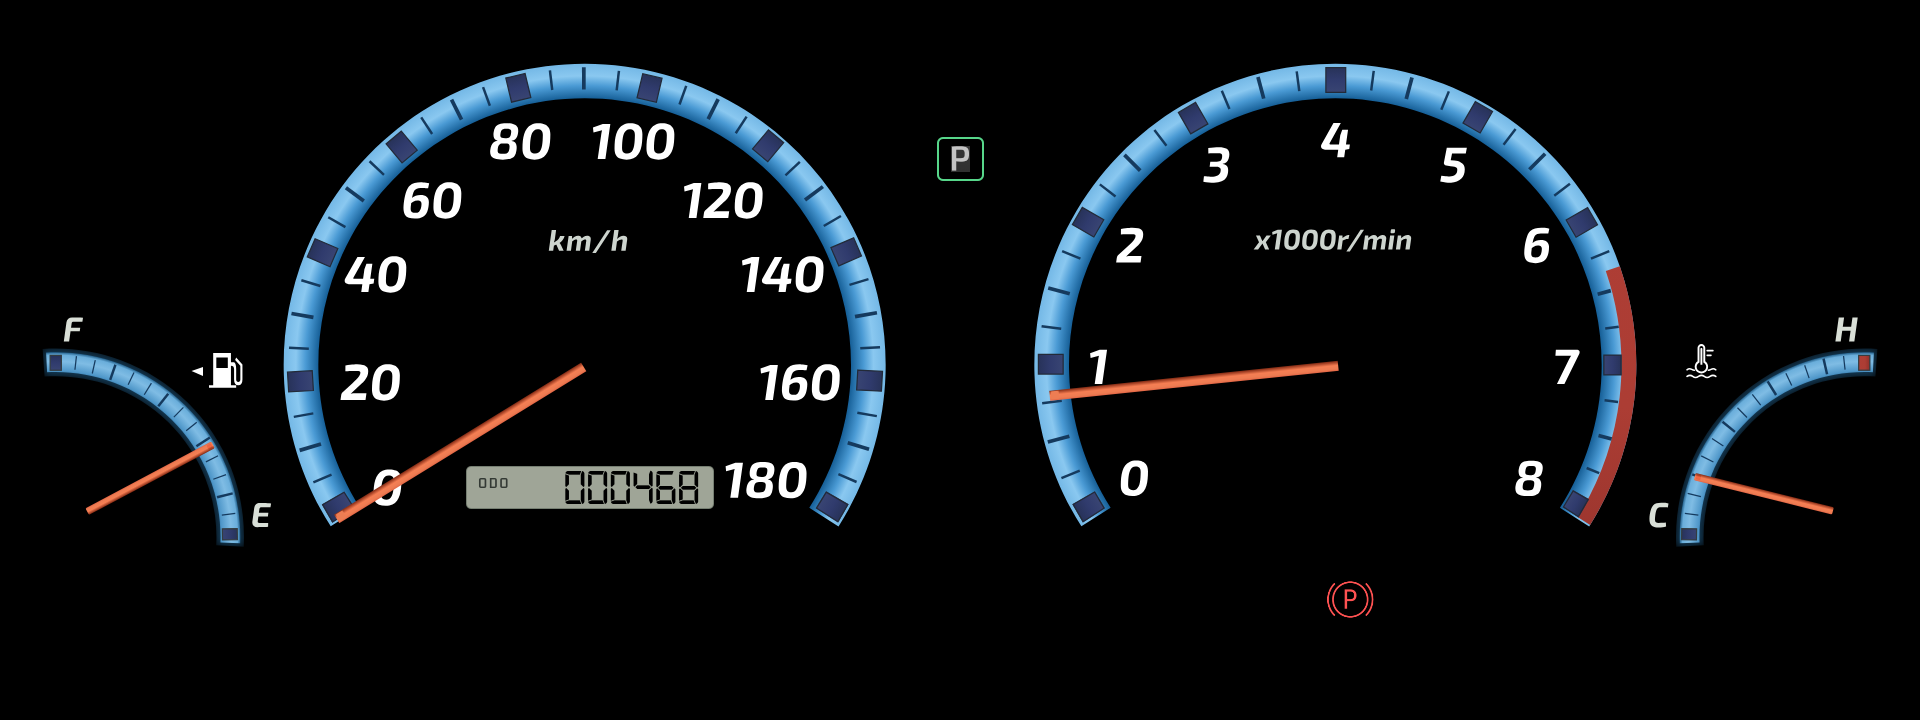
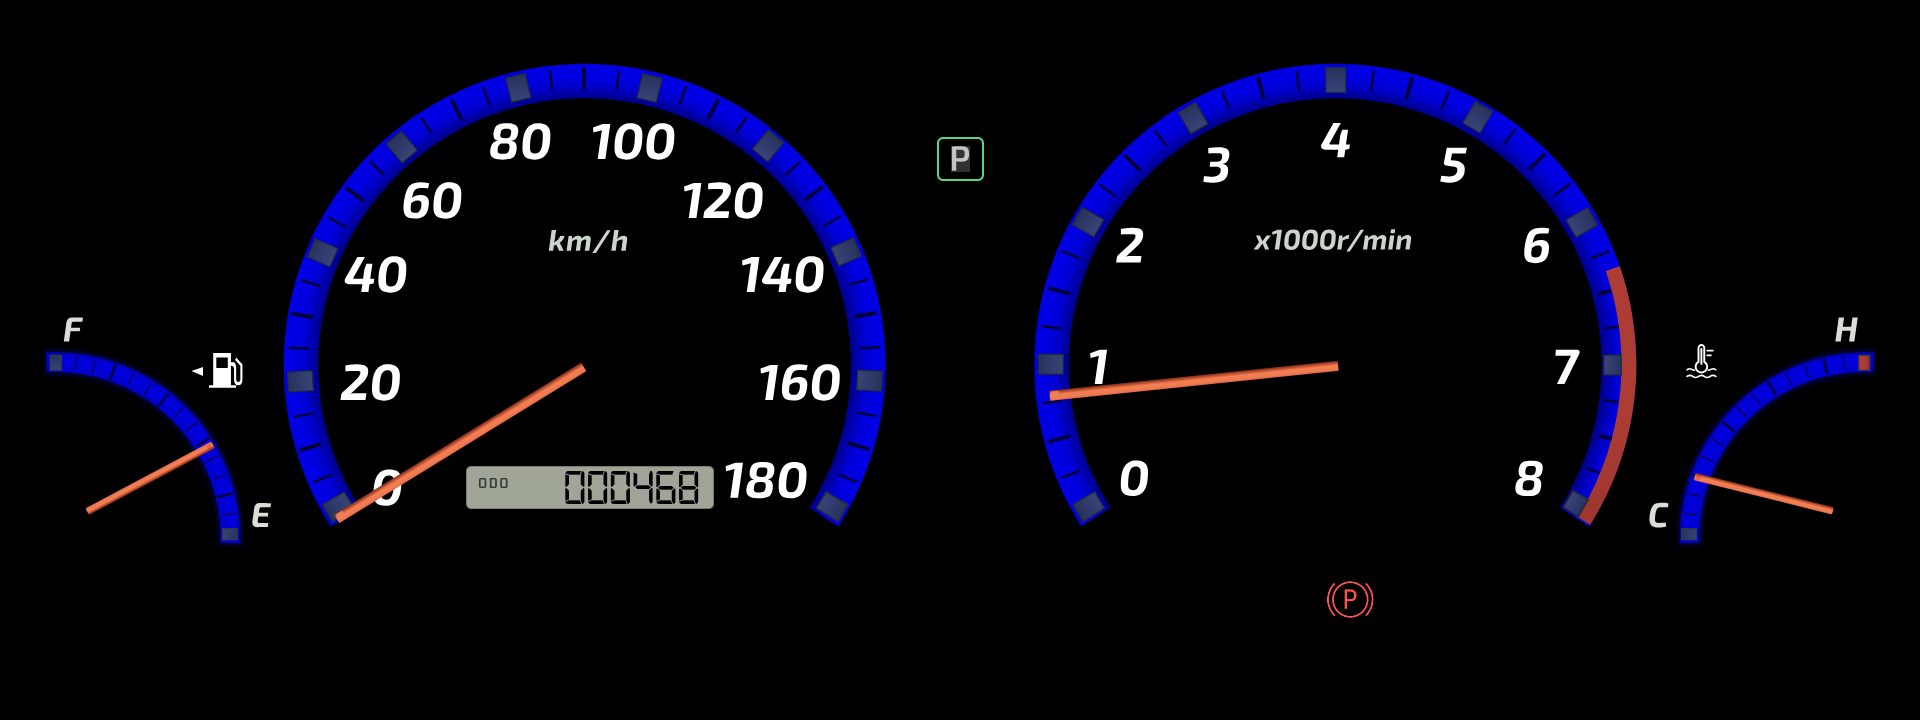
dsh: Gaia-blue — шкалы и колодцы в чистый синий #0000FF

diff --git a/tools/gaia_bake.py b/tools/gaia_bake.py
@@ -82,15 +82,18 @@ BASE_FILL_OUT = "#000000"
 # #9CA39E, #828C87, #CBD1CA, #E3E7DF, #DEE2DA.
 # Кольца основных шкал (5 ступеней, как в макете: тёмная-тёмная-светлая-светлая-светлая).
 RING_GRADIENTS = ("paint0_radial_19_361", "paint17_radial_19_361")
-RING_BLUE_STOPS = ["#1E6FAE", "#155E96", "#4A9AD4", "#8AC8F0", "#74B8E6"]
+# Заказчик просил конкретный цвет — чистый синий #0000FF. Ступени градиента
+# строятся как этот цвет, умноженный на яркость исходной серой ступени,
+# иначе кольцо становится плоским пятном без металлического блика.
+RING_BLUE_STOPS = ["#0000A1", "#000087", "#0000CC", "#0000E3", "#0000E0"]
 # Кольца-колодцы топлива и температуры в углах (6 ступеней).
 CORNER_GRADIENTS = ("paint34_radial_19_361", "paint41_radial_19_361")
-CORNER_BLUE_STOPS = ["#2A6E9E", "#1F5C88", "#4F97C9", "#7FBCE4", "#6AAEDB", "#24618C"]
+CORNER_BLUE_STOPS = ["#0000A6", "#000091", "#0000CC", "#0000DE", "#0000D1", "#00009C"]
 # Обод угловых колодцев и деления шкал — тёмно-синие.
 RING_EDGE = "#2F373D"
-RING_EDGE_BLUE = "#143A55"
+RING_EDGE_BLUE = "#000038"
 DARK_MARKS = ("#303538", "#31383B")     # деления шкал
-DARK_MARKS_BLUE = "#153A5E"             # тёмно-синие деления
+DARK_MARKS_BLUE = "#000033"             # деления: тёмный синий
 NUMBERS = "#DFE2DD"                     # цифры на шкалах
 NUMBERS_BLUE_THEME = "#FFFFFF"          # в синем варианте — чисто белые
 

diff --git a/docs/skin.md b/docs/skin.md
@@ -15,10 +15,12 @@
 свойство `blueScale`), меняется только фон: `tools/gaia_bake.py` печёт
 вторую картинку `images/gaia/gaia_bg_blue.png` из того же вырезанного SVG,
 подменяя палитру шкал — градиенты колец основных шкал (`RING_BLUE_STOPS`)
-и колодцев топлива/температуры в углах (`CORNER_BLUE_STOPS`) на синие,
-деления и ободы в тёмно-синий, цифры в чисто белый. Синий взят насыщенный:
-на кадре кольцо `93,154,201`, колодцы `95,159,203`. Стрелки (в том числе
-маленькие топлива и температуры), лампы и экранчик не меняются. Включение — `DASHBOARD_SKIN=gaia-blue`
+и колодцев топлива/температуры в углах (`CORNER_BLUE_STOPS`) на **чистый
+синий #0000FF** (ступени градиента — #0000FF, умноженный на яркость
+исходной серой ступени, иначе кольцо становится плоским пятном), деления
+и ободы — тёмный синий `#000033`/`#000038`, цифры — чисто белый. На кадре
+кольцо `7,8,191`, колодцы `0,0,205`. Стрелки (в том числе маленькие
+топлива и температуры), лампы и экранчик не меняются. Включение — `DASHBOARD_SKIN=gaia-blue`
 или F8 после «gaia».
 
 **Как собрано.** Макет — чистый вектор без единого `<text>`: вся типографика
